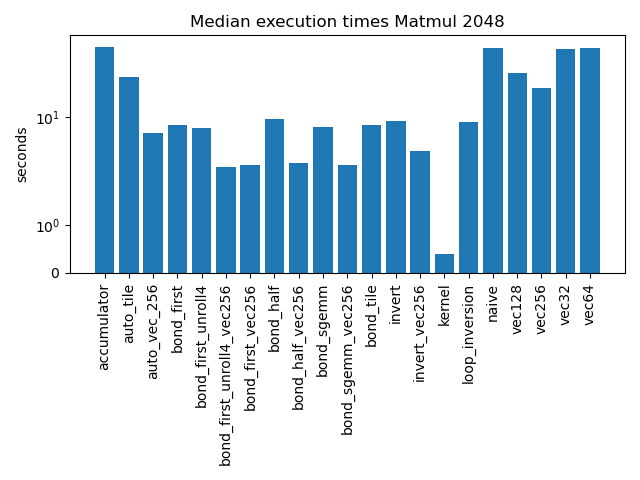
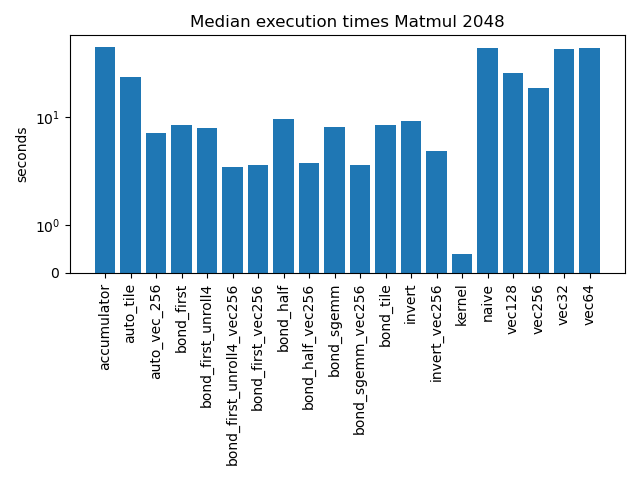
Results from DAMS Server

Changed region(s): [[0.1562, 0.0938, 0.9062, 0.9688]]

diff --git a/scripts/visualization/make_visualizations.py b/scripts/visualization/make_visualizations.py
@@ -5,6 +5,33 @@ import json
 import os
 import re
 
+relabel = {
+    "bond_sgemm_vec256": "sTile + vec256",
+"bond_sgemm": "sTile",
+"bond_first_vec256": "Tile + vec256",
+"bond_half_vec256": "1/2 Tile + vec256",
+"auto_tile":"auto Tile",
+"auto_vec_256":"auto Tile + vec256",
+"auto_vec_256_server":"Server: auto Tile + vec256",
+"naive":"naive",
+"bond_first_unroll4": "Tile + unroll",
+"bond_first_unroll4_vec256": "Tile + unroll + vec256",
+"bond_tile": "Tile 2",
+"bond_half": "1/2 Tile",
+"bond_first": "Tile",
+"vec32":"vec32",
+"vec64":"vec64",
+"vec128":"vec128",
+"vec256":"vec256",
+"bond_tile_vec256":"Tile 2 + vec256",
+"bond_tile_vec256_server":"Server: Tile 2 + vec256",
+"kernel": "BLAS",
+"kernel_server": "Server: BLAS",
+"invert":"Inv. Loops",
+"invert_vec256":"Inv. Loops + vec256",
+"accumulator": "Accumulator",
+}
+
 # 1: Query compilation and execution times
 medians = {}
 for file_name in os.listdir("./scripts/outputs_machine/"):
@@ -21,7 +48,7 @@ plt.title("Median query compilation + execution Matmul 2048")
 plt.ylabel("seconds")
 plt.yscale("symlog")
 plt.tight_layout()
-plt.savefig("compilationExecution.png")
+plt.savefig("Figures/compilationExecution.png")
 plt.close()
 
 # 2: Query execution times.
@@ -45,7 +72,7 @@ plt.title("Median execution times Matmul 2048")
 plt.ylabel("seconds")
 plt.yscale("symlog")
 plt.tight_layout()
-plt.savefig("execution.png")
+plt.savefig("Figures/execution.png")
 plt.close()
 
 # Single precision
@@ -69,14 +96,14 @@ plt.title("Median execution times f32 Matmul 2048")
 plt.ylabel("seconds")
 plt.yscale("symlog")
 plt.tight_layout()
-plt.savefig("singleExecution.png")
+plt.savefig("Figures/singleExecution.png")
 plt.close()
 
 
 # 3: Variable sizes
 times = {}
 for file_name in os.listdir("./scripts/outputs/"):
-    if ".out" in file_name:
+    if "sizes.out" in file_name:
         with open(os.path.join("./scripts/outputs/", file_name), "rt") as file:
             lines = file.readlines()
             current_times = {}
@@ -91,13 +118,14 @@ for file_name in os.listdir("./scripts/outputs/"):
                     current_times[current_size] = []
 
             name = file_name.split(".")[0]
+            name = re.sub("_sizes", "", name)
             times[name] = {k: np.median(v) for k,v in current_times.items()}
 ax = pd.DataFrame(times).sort_index().plot(kind="bar", title="Various size Matmul execution times")
 ax.set_xlabel("Linear Matrix size")
 ax.set_ylabel("seconds")
 ax.set_yscale("log")
 plt.tight_layout()
-plt.savefig("varSizes.png")
+plt.savefig("Figures/varSizes.png")
 plt.close()
 
 #4 Integer
@@ -121,7 +149,7 @@ plt.title("Median execution times int32 Matmul 2048")
 plt.ylabel("seconds")
 plt.yscale("symlog")
 plt.tight_layout()
-plt.savefig("intExecution.png")
+plt.savefig("Figures/intExecution.png")
 plt.close()
 
 # 5: Matrix vector products
@@ -148,7 +176,7 @@ ax.set_xlabel("Vector size")
 ax.set_ylabel("seconds")
 ax.set_yscale("log")
 plt.tight_layout()
-plt.savefig("matVec.png")
+plt.savefig("Figures/matVec.png")
 plt.close()
 
 #6: Potential of packing using DataCopyGenerate
@@ -178,5 +206,79 @@ ax.set_xlabel("Linear Matrix size")
 ax.set_ylabel("seconds")
 ax.set_yscale("log")
 plt.tight_layout()
-plt.savefig("packing.png")
+plt.savefig("Figures/packing.png")
+plt.close()
+
+# 7: Server Run
+times = {}
+for file_name in os.listdir("./scripts/outputs/"):
+    if "server.out" in file_name:
+        with open(os.path.join("./scripts/outputs/", file_name), "rt") as file:
+            lines = file.readlines()
+            current_times = {}
+            current_size = None
+            for line in lines:
+                if line[:3] == "ms:":
+                    current_times[current_size].append(float(line[3:]) / 1000)
+                elif line[:3] == "sum":
+                    pass
+                else:
+                    current_size = int(line)
+                    current_times[current_size] = []
+
+            name = file_name.split(".")[0]
+            times[name] = {k: np.median(v) for k,v in current_times.items()}
+ax = pd.DataFrame(times).sort_index().plot(kind="bar", title="Various size Matmul execution times on DAMS Server")
+ax.set_xlabel("Linear Matrix size")
+ax.set_ylabel("seconds")
+ax.set_yscale("log")
+plt.tight_layout()
+plt.savefig("Figures/server.png")
+plt.close()
+
+# 8: Server Run vs Local
+times = {}
+for file_name in os.listdir("./scripts/outputs/"):
+    if "server.out" in file_name:
+        with open(os.path.join("./scripts/outputs/", file_name), "rt") as file:
+            lines = file.readlines()
+            current_times = {}
+            current_size = None
+            for line in lines:
+                if line[:3] == "ms:":
+                    current_times[current_size].append(float(line[3:]) / 1000)
+                elif line[:3] == "sum":
+                    pass
+                else:
+                    current_size = int(line)
+                    current_times[current_size] = []
+
+            name = file_name.split(".")[0]
+            times[relabel[name]] = {k: np.median(v) for k,v in current_times.items()}
+        file_name = re.sub("server", "sizes", file_name)
+        with open(os.path.join("./scripts/outputs/", file_name), "rt") as file:
+            lines = file.readlines()
+            current_times = {}
+            current_size = None
+            for line in lines:
+                if line[:3] == "ms:":
+                    if current_size >= 2048:
+                        current_times[current_size].append(float(line[3:]) / 1000)
+                elif line[:3] == "sum":
+                    pass
+                else:
+                    current_size = int(line)
+                    if current_size >= 2048:
+                        current_times[current_size] = []
+
+            name = file_name.split(".")[0]
+            name = re.sub("_sizes", "", name)
+            times[relabel[name]] = {k: np.median(v) for k,v in current_times.items()}
+df = pd.DataFrame(times).sort_index()
+ax = df.plot(kind="bar", title="Various size Matmul execution times on DAMS Server")
+ax.set_xlabel("Linear Matrix size")
+ax.set_ylabel("seconds")
+ax.set_yscale("log")
+plt.tight_layout()
+plt.savefig("Figures/serverVsLocal.png")
 plt.close()
